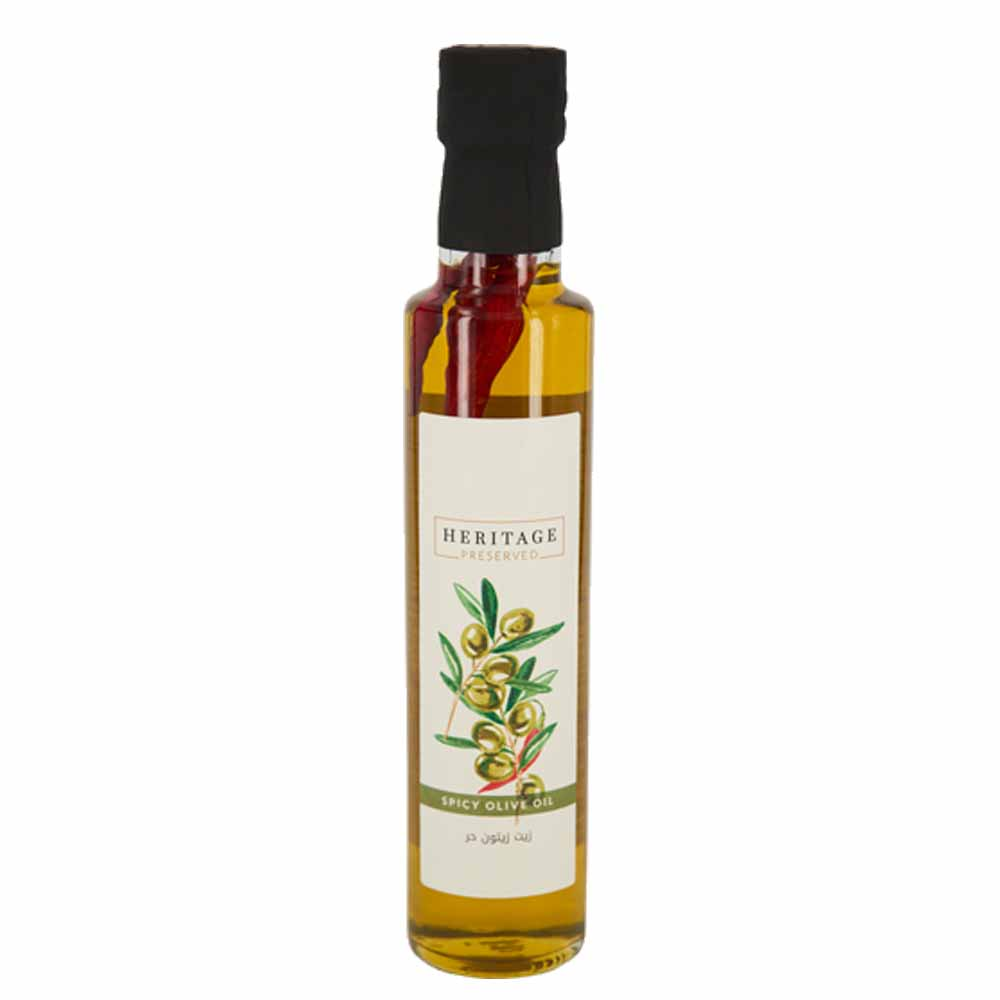
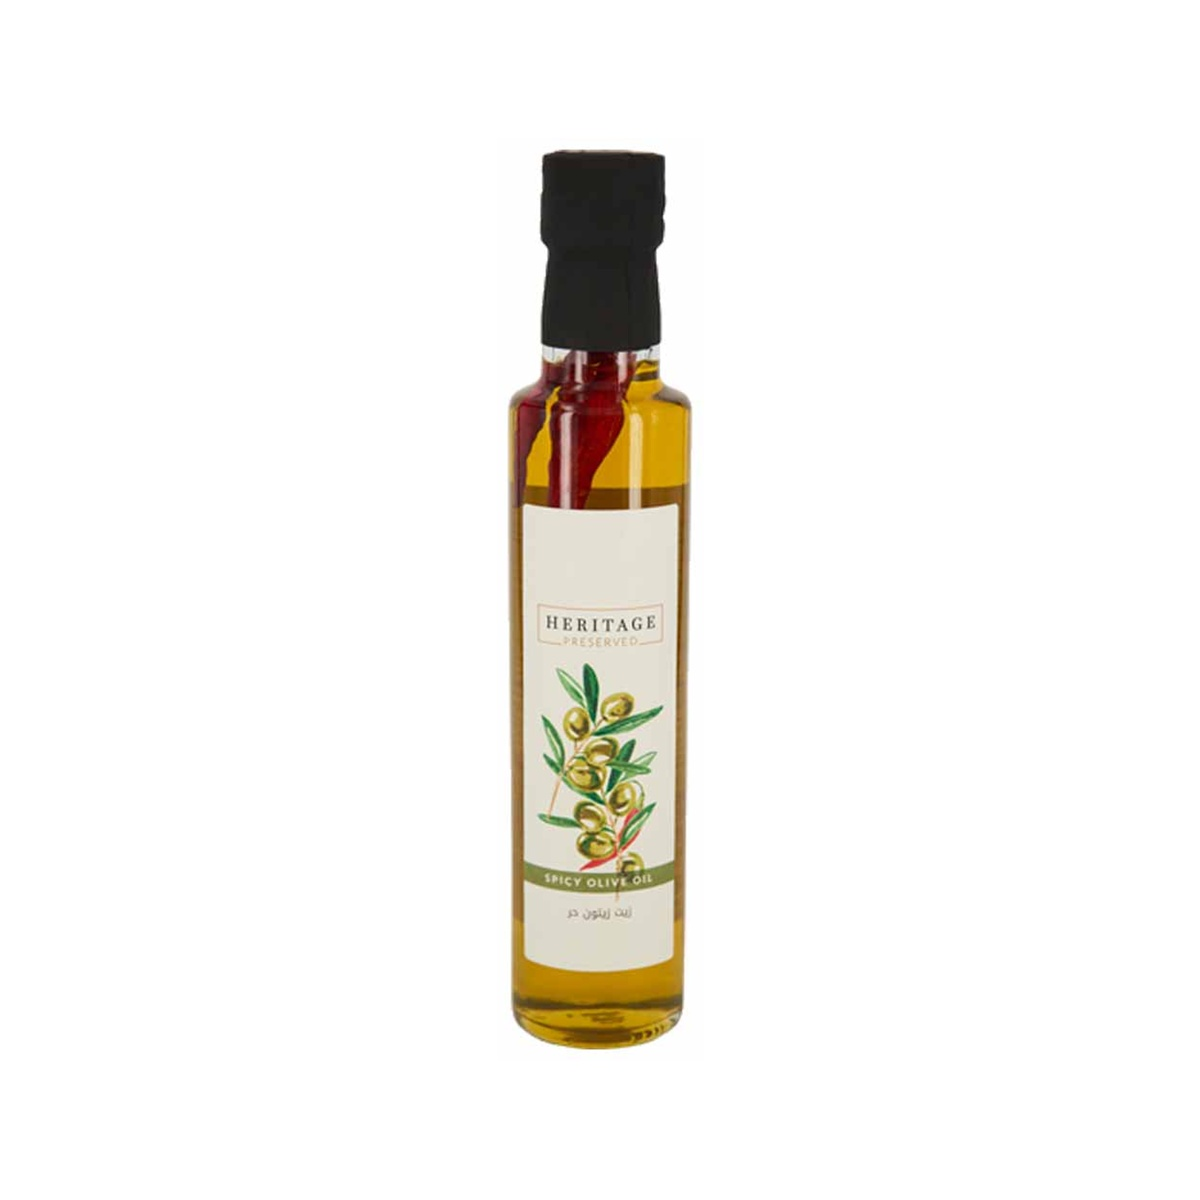
Оновлення

Changed region(s): [[0.403, 0.031, 0.62, 0.992]]

diff --git a/js/global.js b/js/global.js
@@ -12,6 +12,16 @@ const Mouneh = (function () {
     language: "en"
   };
 
+  const bottleProductIds = new Set([
+    "pomegranate-molasses",
+    "orange-blossom-water",
+    "rose-water",
+    "apple-vinegar",
+    "rose-syrup",
+    "sage-water",
+    "spicy-olive-oil"
+  ]);
+
   function formatPrice(value) {
     return new Intl.NumberFormat("en-US", { style: "currency", currency: "USD" }).format(value);
   }
@@ -399,11 +409,13 @@ const Mouneh = (function () {
     if (product.badge) cardClasses.push("has-badge");
     if (product.detailsPending) cardClasses.push("details-pending");
     const minimalPending = options.minimalPending && product.detailsPending;
+    const imageClasses = ["product-packshot"];
+    if (bottleProductIds.has(product.id)) imageClasses.push("product-image--bottle");
     return `
       <article class="${cardClasses.join(" ")}">
         <a class="product-image-link" href="product.html?product=${product.slug}" aria-label="View ${product.name}">
           <div class="product-image" data-image-src="${product.images[0]}">
-            <img class="product-packshot" src="${product.images[0]}" alt="" loading="lazy" decoding="async" onerror="this.hidden=true;this.parentElement.classList.add('is-image-missing')" style="--packshot-size:${product.imageScale || 112}%;object-position:${product.imagePosition || "center"}" />
+            <img class="${imageClasses.join(" ")}" src="${product.images[0]}" alt="" loading="lazy" decoding="async" onerror="this.style.display='none';this.parentElement.classList.add('is-image-missing')" style="--packshot-size:${product.imageScale || 112}%;object-position:${product.imagePosition || "center"}" />
           </div>
         </a>
         <div class="product-card-body">
@@ -443,6 +455,7 @@ const Mouneh = (function () {
         const markLoaded = () => visual.classList.add("has-real-image");
         const markFailed = () => {
           image.hidden = true;
+          image.style.display = "none";
           visual.classList.remove("has-real-image");
           visual.classList.add("is-image-missing");
         };

diff --git a/css/shop.css b/css/shop.css
@@ -443,14 +443,22 @@
     transform:none;
   }
 
-  .shop-page #shopProductGrid .product-image[data-image-src$="Orange-Blossom-Water.png"] .product-packshot,
-  .shop-page #shopProductGrid .product-image[data-image-src$="Rose-Water.png"] .product-packshot {
+  .shop-page #shopProductGrid .product-packshot.product-image--bottle {
     width:100%;
     height:100%;
-    max-width:76%;
-    max-height:84%;
-    transform:scale(.8);
-    transform-origin:center center;
+    max-width:none;
+    max-height:none;
+    margin:0;
+    padding:0;
+    box-sizing:border-box;
+    object-fit:contain;
+    object-position:center center;
+    transform:none;
+  }
+
+  .shop-page #shopProductGrid .product-image img:not([src]),
+  .shop-page #shopProductGrid .product-image img[src=""] {
+    display:none;
   }
 
   .shop-page #shopProductGrid .product-image[data-image-src$="thyme-labneh-rounds.jpg"] .product-packshot,
